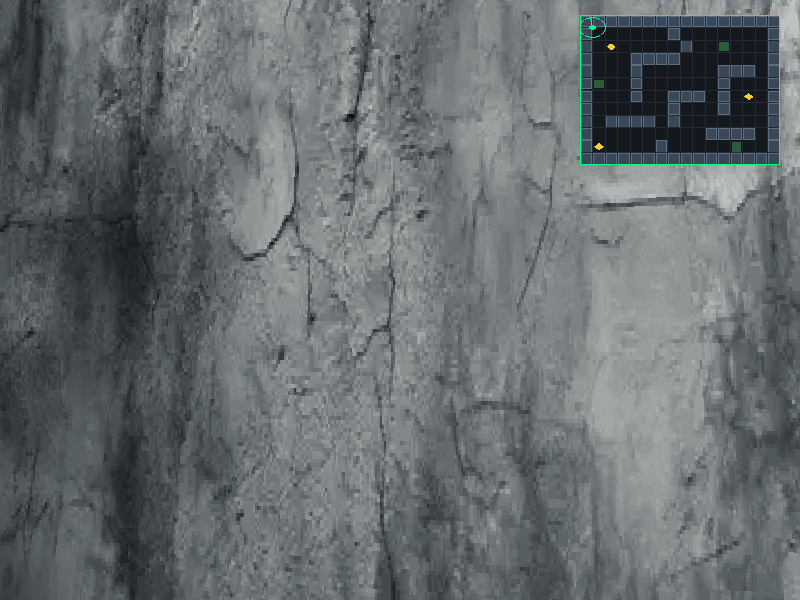
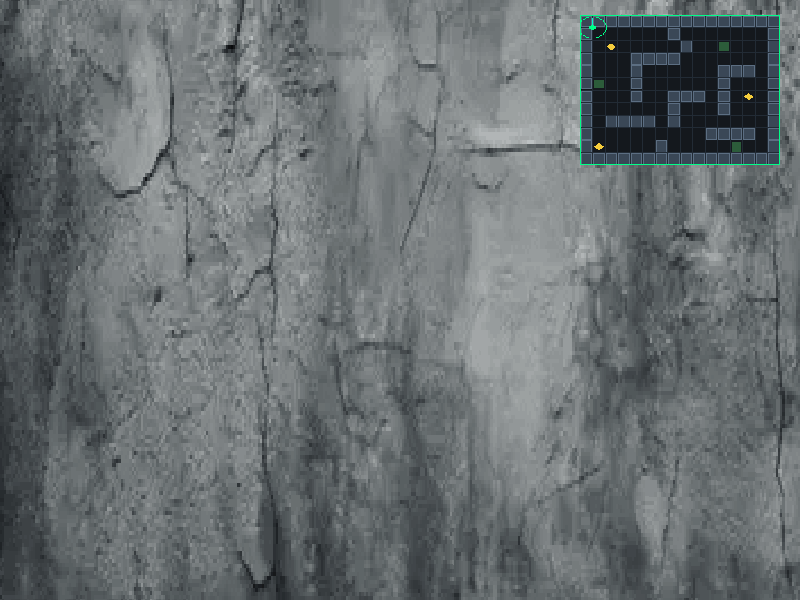
Update README project overview, format main runtime loop, and refresh CP1 evidence capture

diff --git a/src/main.cpp b/src/main.cpp
@@ -9,7 +9,6 @@
 #include <glm/gtc/type_ptr.hpp>
 #include <iostream>
 
-
 // Screen and viewport
 const unsigned int SCR_WIDTH = 800;
 const unsigned int SCR_HEIGHT = 600;
@@ -40,6 +39,7 @@ void mouse_callback(GLFWwindow *window, double xposIn, double yposIn) {
 
   if (firstMouse) {
     lastX = xpos;
+
     lastY = ypos;
     firstMouse = false;
   }
@@ -128,7 +128,8 @@ int main() {
   {
     MinimapHUD demoHUD(200, 200);
     demoHUD.render(-7.0f, -5.0f, -45.0f, 1.5f, houseGrid);
-    demoHUD.canvas.savePNG("checkpoints/checkpoint1/cp1_output/cp1_minimap_hud.png");
+    demoHUD.canvas.savePNG(
+        "checkpoints/checkpoint1/cp1_output/cp1_minimap_hud.png");
   }
 
   if (!glfwInit()) {
@@ -443,7 +444,8 @@ int main() {
                                      glPixels[srcIdx + 2]));
         }
       }
-      screenCanvas.savePNG("checkpoints/checkpoint1/cp1_output/cp1_gameplay_3d_hud.png");
+      screenCanvas.savePNG(
+          "checkpoints/checkpoint1/cp1_output/cp1_gameplay_3d_hud.png");
     }
 
     glfwSwapBuffers(window);

diff --git a/README.md b/README.md
@@ -1,7 +1,7 @@
 # 3D SURVIVAL HORROR APPLICATION
 *(Working Title: Echoes in the Dark)*
 
-A real-time 3D First-Person Survival Horror Game built in standard C++17, featuring an offline **Pure C++ Software Rasterization Engine** and a hardware-accelerated **OpenGL 3.3 Core Profile Graphics Pipeline**.
+The project is a first-person survival horror game built in C++ and OpenGL. The player navigates a dark, enclosed maze to collect fuses and escape, combining real-time 3D exploration with a custom CPU-rendered minimap HUD to track surroundings and avoid a roaming entity
 
 > [!IMPORTANT]
 > **Checkpoint Evaluation Navigation:**
